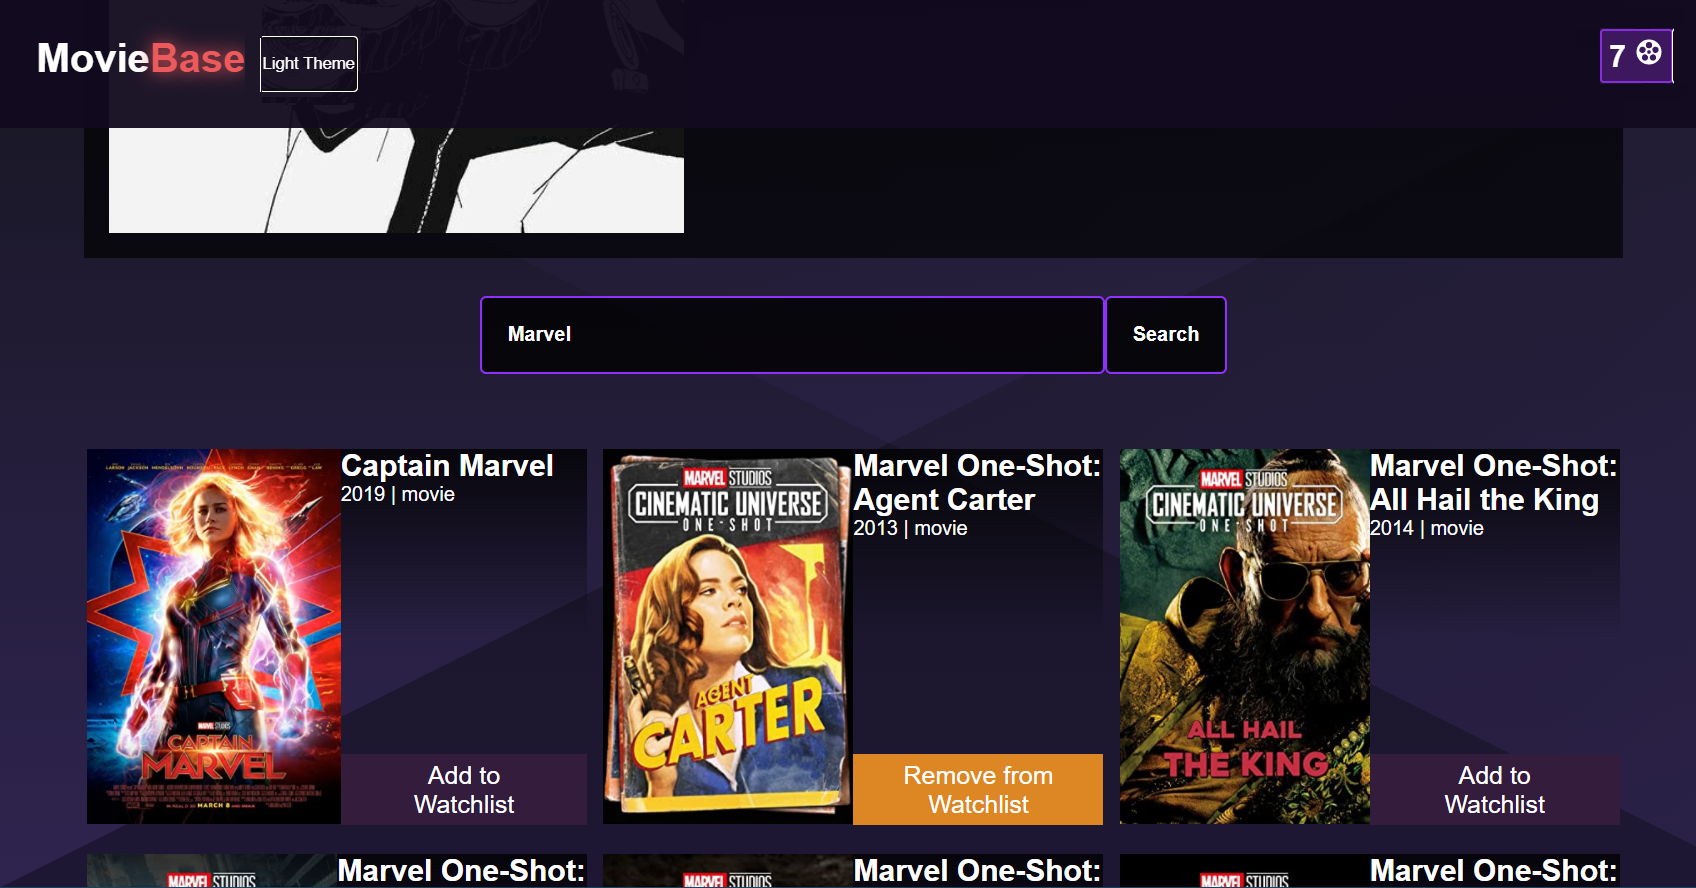
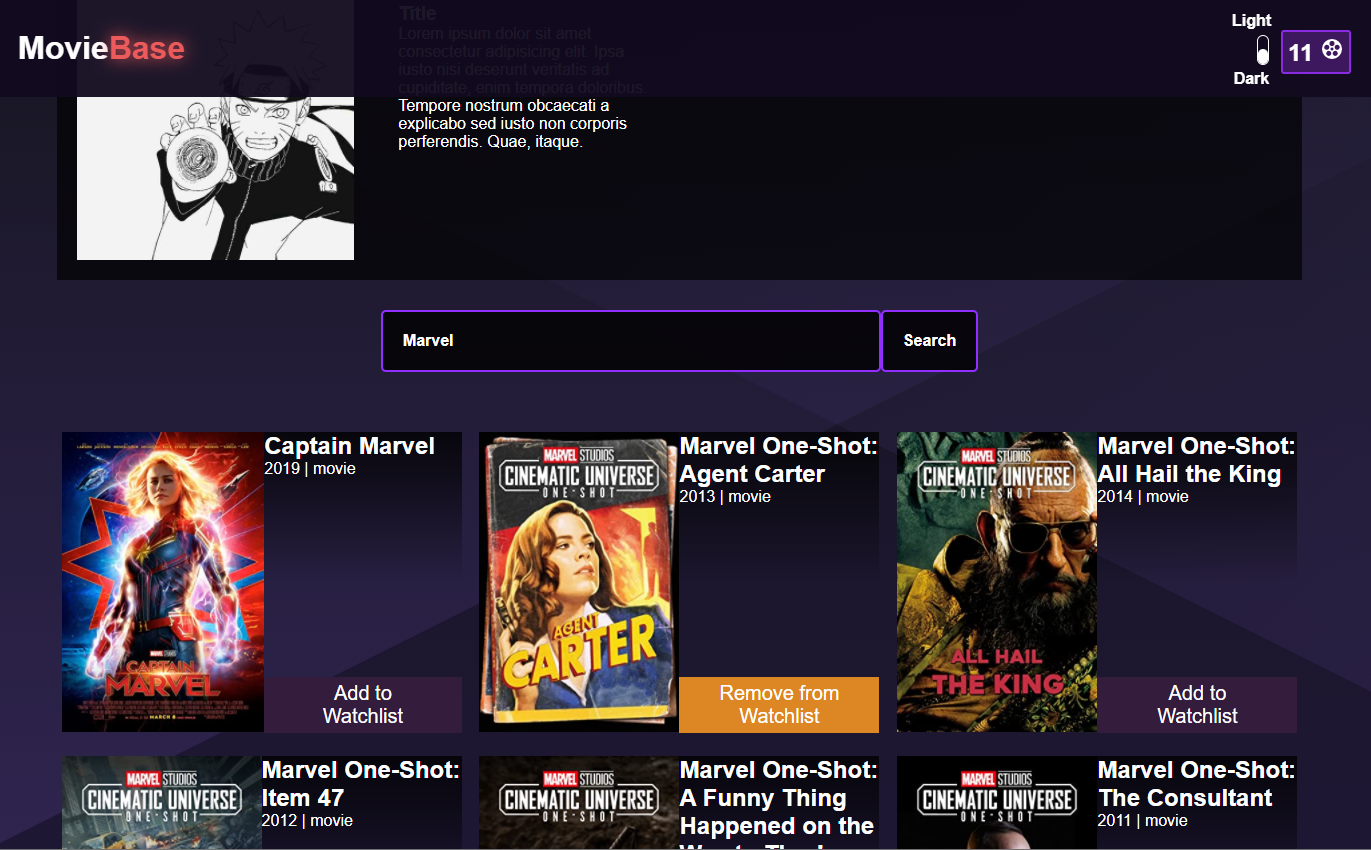
Added theme roller in navbar

diff --git a/src/components/Navbar.vue b/src/components/Navbar.vue
@@ -8,7 +8,13 @@
         <h2 style="color:white;">{{$store.state.toWatch.length?$store.state.toWatch.length:0}} <span class="iconify" data-icon="mdi:movie-roll" data-inline="false"></span></h2>
       </router-link>
     </div>
-    <button class="theme-btn" @click="$store.commit('setTheme')">{{$store.state.darkTheme?"Light Theme":"Dark Theme"}}</button>
+    <div class="theme">
+      <h4>Light</h4>
+        <div @click="$store.commit('setTheme')" class="roll">
+          <button :style="$store.state.darkTheme&&'top:13px;'" class="theme-btn">{{$store.state.darkTheme?".":"."}}</button>
+        </div>
+      <h4>Dark</h4>
+    </div>
   </div>
 </template>
 
@@ -50,10 +56,12 @@ export default {
   color: #fffb15;
 }
 .to-watch-box{
+  position: fixed;
   padding: 5px;
   border: blueviolet 2px solid;
   background-color: rgb(61, 24, 95);
   border-radius: 3px;
+  right: 20px;
 }
 
 .nav button{
@@ -96,7 +104,32 @@ export default {
     text-shadow: 0px 0px 5px #EC5A5C;
   }
 }
+
+.theme{
+  position: absolute;
+  top: 12px;
+  right: 100px;
+}
 .theme-btn{
-    background: none;
+    position: absolute;
+    background: white;
+    width: 100%;
+    top: 0px;
+    border: none;
+    border-radius: 5px;
+    transition: 0.7s ease-out;
   }
+
+.theme .roll{
+  height: 30px;
+  width: 12px;
+  background:none;
+  border: white 1px solid;
+  border-radius: 10px;
+}
+
+.roll{
+  position: relative;
+  margin: 5px 0px 5px 25px;
+}
 </style>

diff --git a/src/views/Home.vue b/src/views/Home.vue
@@ -55,7 +55,7 @@ export default {
   max-width: 90%;
   margin: 0 auto;
   display: grid;
-  grid-template-columns: repeat(auto-fill,minmax(300px,500px));
+  grid-template-columns: repeat(auto-fill,minmax(300px,3fr));
   background-color: rgba(2, 2, 2,0.7);
   animation: feature-card-animation;
   animation-duration: 1s;
